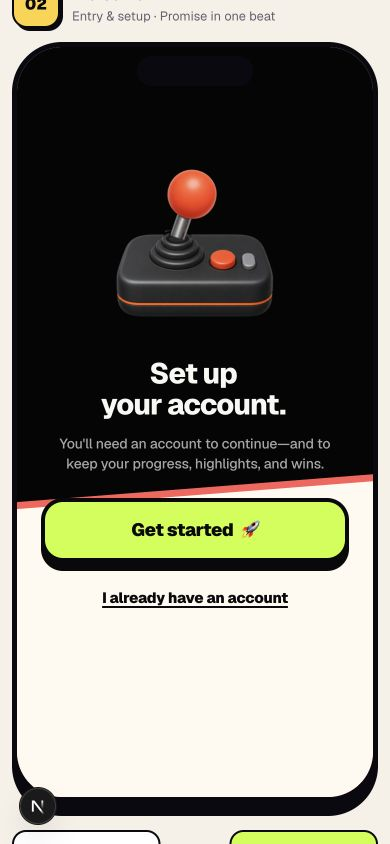
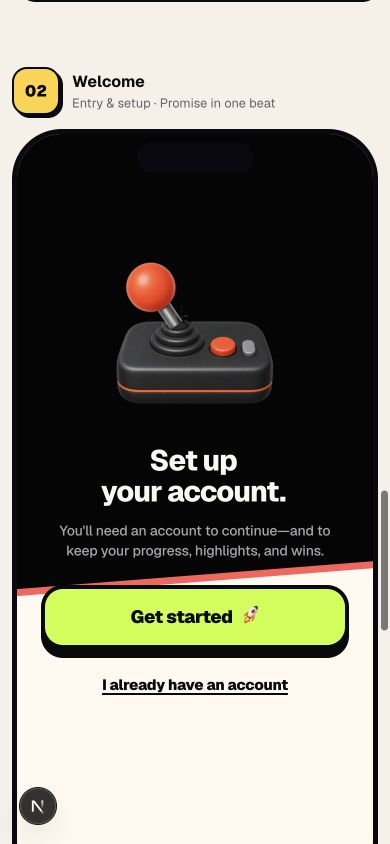
fix(assets): use custom rocket mark in welcome CTA

diff --git a/app/page.tsx b/app/page.tsx
@@ -167,7 +167,15 @@ function WelcomeScreen({ next, onLogin }: { next: () => void; onLogin: () => voi
         onClick={() => setLaunching(true)}
         disabled={launching}
       >
-        Get started <span aria-hidden="true">🚀</span>
+        Get started
+        <img
+          className="welcome-rocket-mark"
+          src="/havoc-rocket-cutout.png"
+          alt=""
+          width={343}
+          height={552}
+          aria-hidden="true"
+        />
       </button>
       <button className="welcome-secondary" onClick={onLogin} disabled={launching}>
         I already have an account

diff --git a/app/globals.css b/app/globals.css
@@ -560,6 +560,13 @@
   line-height: 1;
 }
 
+.welcome-primary .welcome-rocket-mark {
+  width: 19px;
+  height: 29px;
+  flex: 0 0 auto;
+  object-fit: contain;
+}
+
 .welcome-secondary {
   min-height: 52px;
   border: 0;
